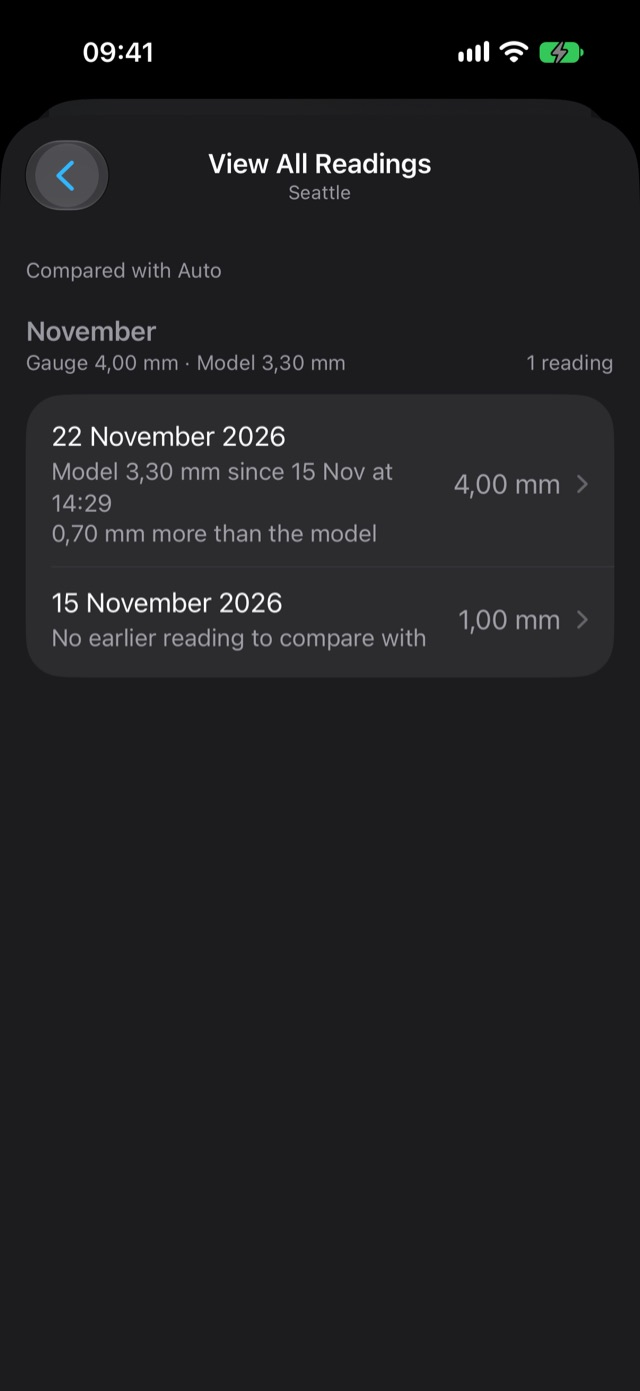
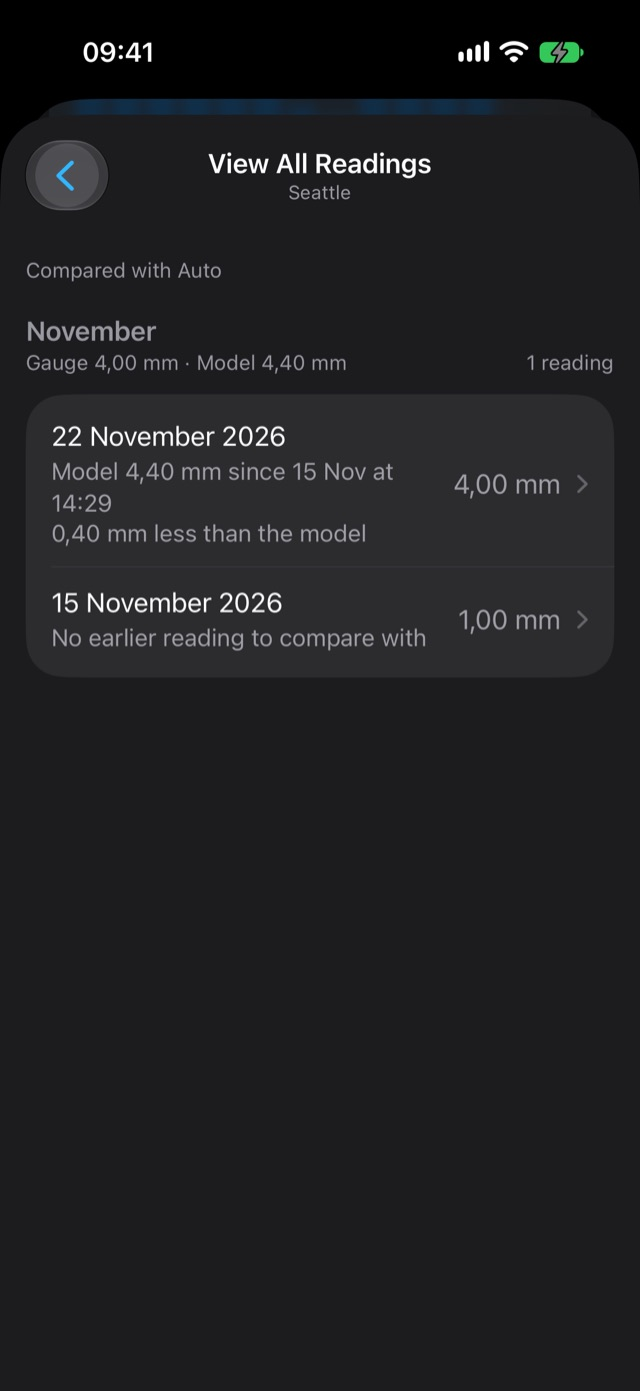
[save] Скриншоты сборки 95: экран локации без сносок, атрибуция Open-Meteo в Settings → Legal

diff --git a/index.html b/index.html
@@ -189,7 +189,7 @@ footer { padding-top: 2rem; font-size: .85rem; color: var(--muted); }
     <h1>Версия <span>2.3</span></h1>
     <p class="lede">Приложение теперь отвечает не только «сколько выпало», но и «это много или мало для этого места», «хватит ли воды газону» и «сколько ещё выпадет». Новые нормы, счётчик дождливых и ветреных дней, цель полива, прогноз осадков на карте, утренний отчёт и экспорт.</p>
     <div class="meta">
-      <span>версия <b>2.3.0</b> · build <b>93</b></span>
+      <span>версия <b>2.3.0</b> · build <b>95</b></span>
       <span>прошлая: 2.2.1 (92)</span>
       <span>iOS 18+</span>
     </div>
@@ -243,8 +243,8 @@ footer { padding-top: 2rem; font-size: .85rem; color: var(--muted); }
     <p class="where">Map → слой осадков → период 48 Hours</p>
   </div>
   <div class="shots">
-    <figure><div class="phone"><img src="img/map-forecast.jpg" alt="Карта Сиэтла с прогнозом осадков за 48 часов: цветные блоки от синего до жёлтого, сверху подпись RRFS 12:00 → Wed 12:00 и шкала от 0,5 до 100 мм" width="640" height="1391" loading="lazy"></div><figcaption>Прогноз RRFS на 48 часов над Сиэтлом</figcaption></figure>
-    <figure><div class="phone"><img src="img/map-settings.jpg" alt="Лист Map Preferences с переключателями Forecast и Precipitation Overlay и сноской об источниках Open-Meteo и CC BY 4.0" width="640" height="1391" loading="lazy"></div><figcaption>Переключатель слоя и атрибуция</figcaption></figure>
+    <figure><div class="phone"><img src="img/map-forecast.jpg" alt="Карта Северной Америки с прогнозом осадков за 48 часов по модели ECMWF: зоны дождя у тихоокеанского побережья и на юго-востоке, сверху подпись ECMWF 08:00 → Thu 08:00 и шкала от 0,5 до 100 мм" width="640" height="1391" loading="lazy"></div><figcaption>Прогноз ECMWF на 48 часов над Северной Америкой</figcaption></figure>
+    <figure><div class="phone"><img src="img/map-settings.jpg" alt="Лист Map Preferences: Pin Style, Map Style, переключатели Forecast и Precipitation Overlay, Precipitation Style и сноска об источниках Open-Meteo и CC BY 4.0" width="640" height="1391" loading="lazy"></div><figcaption>Переключатель слоя и атрибуция</figcaption></figure>
   </div>
 </section>
 
@@ -256,16 +256,15 @@ footer { padding-top: 2rem; font-size: .85rem; color: var(--muted); }
       <p class="sub">Новая карточка на экране локации считает дни с дождём за месяц и сравнивает их с климатической нормой.</p>
     </div>
     <ul>
-      <li>Дождливый день — сумма не меньше порога «Rain day threshold». Для текущего месяца — «N so far» и подписанный период: «Days counted: 1–22 Nov».</li>
+      <li>Дождливый день — сумма не меньше порога «Rain day threshold». Для текущего месяца — «N so far» и подписанный период: «Days counted: 1–23 Nov».</li>
       <li>«Average for…» — норма 1991–2020 по реанализу ERA5 за те же дни.</li>
       <li>«Rain events» — список дней с сильным дождём выше «Event threshold».</li>
-      <li>Предварительные дни, которые модель ещё может пересчитать, помечены точкой.</li>
-      <li>Работает и на вкладке «My Log» — по показаниям вашего дождемера.</li>
+            <li>Работает и на вкладке «My Log» — по показаниям вашего дождемера.</li>
     </ul>
     <p class="where">Rainfall → карточка локации → Rain Days</p>
   </div>
   <div class="shots">
-    <figure><div class="phone"><img src="img/rain-days.jpg" alt="Карточка Rain Days для Сиэтла: 7 дождливых дней с 1 по 22 ноября при норме 10,5; ниже события 7 и 10 ноября по 16 и 18 мм и годовой график с нормой" width="640" height="1391" loading="lazy"></div><figcaption>7 дождливых дней при норме 10,5</figcaption></figure>
+    <figure><div class="phone"><img src="img/rain-days.jpg" alt="Карточки Weekly Watering Goal и Rain Days для Сиэтла: 7 дождливых дней с 1 по 23 ноября при норме 11,1; события 7 и 10 ноября по 16 и 18 мм; 13 ветреных дней" width="640" height="1391" loading="lazy"></div><figcaption>7 дождливых дней при норме 11,1</figcaption></figure>
   </div>
 </section>
 
@@ -277,7 +276,7 @@ footer { padding-top: 2rem; font-size: .85rem; color: var(--muted); }
       <p class="sub">Каждая сумма теперь видна на фоне многолетней нормы для этой точки.</p>
     </div>
     <ul>
-      <li>Накопительный график: пунктир «Normal» и строка «2026: 751 mm · Normal: 1 081 mm (69 %)» на один и тот же день сезона.</li>
+      <li>Накопительный график: пунктир «Normal» и строка «2026: 753 mm · Normal: 1 088 mm (69 %)» на один и тот же день сезона.</li>
       <li>Месячные бары: риска нормы над каждым месяцем и «N % of normal to date» в заголовке.</li>
       <li>Календарь: «% of normal» за прошлый месяц и «to date» за текущий.</li>
       <li>Сезон можно начинать с любого месяца: удобно для водного года (октябрь–сентябрь) или сельхозсезона. Чипы становятся «2025–26».</li>
@@ -286,7 +285,7 @@ footer { padding-top: 2rem; font-size: .85rem; color: var(--muted); }
     <p class="where">Rainfall → карточка локации → Cumulative precipitation</p>
   </div>
   <div class="shots">
-    <figure><div class="phone"><img src="img/normals.jpg" alt="Накопительный график осадков 2026 года в Сиэтле зелёной линией против пунктира нормы; подпись 751 мм против нормы 1 081 мм, 69 %" width="640" height="1391" loading="lazy"></div><figcaption>2026 год: 69 % от нормы на сегодня</figcaption></figure>
+    <figure><div class="phone"><img src="img/normals.jpg" alt="Накопительный график осадков 2026 года в Сиэтле зелёной линией против пунктира нормы; подпись 753 мм против нормы 1 088 мм, 69 %" width="640" height="1391" loading="lazy"></div><figcaption>2026 год: 69 % от нормы на сегодня</figcaption></figure>
   </div>
 </section>
 
@@ -298,22 +297,24 @@ footer { padding-top: 2rem; font-size: .85rem; color: var(--muted); }
       <p class="sub">Карточка «Weekly Watering Goal» отвечает на главный вопрос садовода: поливать или дождь справится сам.</p>
     </div>
     <ul>
-      <li>Прогресс-бар: сколько выпало за 7 дней против цели («3 mm of 25 mm since 16 Nov»).</li>
+      <li>Прогресс-бар: сколько выпало за 7 дней против цели («8 mm of 25 mm since 17 Nov»).</li>
       <li>Вердикт: «Goal reached», «Forecast may cover it» или «Water needed: Z more».</li>
       <li>Прогноз на следующие 3 дня отдельной строкой.</li>
       <li>Цель задаётся в Rain Statistics: от 10 до 40 мм или от 0,5 до 2″.</li>
     </ul>
     <div class="head" style="margin-top:.75rem">
       <div class="tags"><span class="tag">Улучшено</span><span class="tag free">Бесплатно</span></div>
-      <h3 style="font:600 1.1rem/1.3 var(--font-body)">Откуда эта цифра</h3>
+      <h3 style="font:600 1.1rem/1.3 var(--font-body)">Меньше подписей на экране локации</h3>
     </div>
     <ul>
-      <li>Под календарём — сноска: какая модель дала данные (via Open-Meteo), что это оценка по ячейке сетки, а не точечный замер, и в каком часовом поясе считаются сутки.</li>
-      <li>Свежие дни помечены точкой «preliminary»: модель ещё может их уточнить.</li>
+      <li>Под календарём больше нет мелкой сноски об источнике: модель видна в переключателе вкладок, а технические оговорки (сетка модели, граница суток) остались только в шапке экспорта.</li>
+      <li>Атрибуция Open-Meteo переехала в Settings → Legal: строка «Weather data by Open-Meteo.com».</li>
+      <li>Убраны точки «preliminary» в календаре и подпись «Today counts in full…» у цели полива — экран стал чище.</li>
     </ul>
   </div>
   <div class="shots">
-    <figure><div class="phone"><img src="img/goal.jpg" alt="Календарь ноября со суммами по дням, под ним сноска об источнике данных и карточка Weekly Watering Goal: 3 из 25 мм, Forecast may cover it, прогноз на 3 дня 56 мм" width="640" height="1391" loading="lazy"></div><figcaption>Сноска об источнике и цель полива</figcaption></figure>
+    <figure><div class="phone"><img src="img/goal.jpg" alt="Календарь ноября для Сиэтла без сноски под ним, сразу за ним карточка Weekly Watering Goal: 8 из 25 мм с 17 ноября, Forecast may cover it, прогноз на 3 дня 41 мм" width="640" height="1391" loading="lazy"></div><figcaption>Календарь без сноски, сразу цель полива: 8 из 25 мм</figcaption></figure>
+    <figure><div class="phone"><img src="img/legal.jpg" alt="Раздел Legal в настройках: Privacy Policy, Terms of Service и новая строка Weather data by Open-Meteo.com" width="640" height="1391" loading="lazy"></div><figcaption>Атрибуция Open-Meteo теперь в Settings → Legal</figcaption></figure>
     <figure><div class="phone"><img src="img/rain-stats.jpg" alt="Экран Rain Statistics: начало сезона, пороги дождливого дня и события, недельная цель, пороги ветра и порывов" width="640" height="1391" loading="lazy"></div><figcaption>Цель и все пороги — в Rain Statistics</figcaption></figure>
   </div>
 </section>
@@ -335,8 +336,8 @@ footer { padding-top: 2rem; font-size: .85rem; color: var(--muted); }
     <p class="where">Settings → Rain Statistics</p>
   </div>
   <div class="shots">
-    <figure><div class="phone"><img src="img/windy-days.jpg" alt="Карточка Rain Days с новым блоком Windy days: порывы от 30 км/ч, 12 ветреных дней с начала ноября" width="640" height="1391" loading="lazy"></div><figcaption>Windy days: 12 дней с порывами от 30 км/ч</figcaption></figure>
-    <figure><div class="phone"><img src="img/wind-calendar.jpg" alt="Календарь ноября: на ветреных днях в углу ячейки значок ветра, включая прогнозные дни" width="640" height="1391" loading="lazy"></div><figcaption>Значок ветра в календаре</figcaption></figure>
+    <figure><div class="phone"><img src="img/windy-days.jpg" alt="Блок Windy days в карточке Rain Days: порывы от 30 км/ч, 13 ветреных дней с начала ноября; ниже месячные бары 2026 года с нормой" width="640" height="1391" loading="lazy"></div><figcaption>Windy days: 13 дней с порывами от 30 км/ч</figcaption></figure>
+    <figure><div class="phone"><img src="img/wind-calendar.jpg" alt="Календарь ноября для Сиэтла: суммы по дням, 47 % нормы на сегодня, значок ветра в углу ветреных дней, включая прогнозные; под календарём больше нет сноски" width="640" height="1391" loading="lazy"></div><figcaption>Значок ветра в календаре</figcaption></figure>
   </div>
 </section>
 
@@ -368,7 +369,7 @@ footer { padding-top: 2rem; font-size: .85rem; color: var(--muted); }
       <p class="sub">Для тех, кто ведёт свой журнал: насколько модель расходится с вашим дождемером.</p>
     </div>
     <ul>
-      <li>У каждого замера — сумма модели за период с предыдущего замера (до 8 суток) и разница: «0,70 mm more than the model».</li>
+      <li>У каждого замера — сумма модели за период с предыдущего замера (до 8 суток) и разница: «0,40 mm less than the model».</li>
       <li>В шапке месяца — итог «Gauge · Model» по всем сравнимым замерам.</li>
       <li>Модель — основной провайдер локации; для старых замеров архив догружается автоматически.</li>
       <li>Первый замер сравнивать не с чем, он подписан «No earlier reading to compare with».</li>
@@ -376,7 +377,7 @@ footer { padding-top: 2rem; font-size: .85rem; color: var(--muted); }
     <p class="where">Экран локации → меню «…» → View All Readings</p>
   </div>
   <div class="shots">
-    <figure><div class="phone"><img src="img/gauge.jpg" alt="Экран View All Readings для Сиэтла: в ноябре дождемер 4,00 мм против модели 3,30 мм, у замера 22 ноября подпись 0,70 mm more than the model" width="640" height="1391" loading="lazy"></div><figcaption>Дождемер 4,00 мм против модели 3,30 мм</figcaption></figure>
+    <figure><div class="phone"><img src="img/gauge.jpg" alt="Экран View All Readings для Сиэтла: в ноябре дождемер 4,00 мм против модели 4,40 мм, у замера 22 ноября подпись 0,40 mm less than the model" width="640" height="1391" loading="lazy"></div><figcaption>Дождемер 4,00 мм против модели 4,40 мм</figcaption></figure>
   </div>
 </section>
 <section class="feature" id="export">
@@ -395,7 +396,7 @@ footer { padding-top: 2rem; font-size: .85rem; color: var(--muted); }
     <p class="where">Экран локации → меню «…» → Export Data</p>
   </div>
   <div class="shots">
-    <figure><div class="phone"><img src="img/export.jpg" alt="Лист Export Data: период Last 30 Days с 24 октября по 22 ноября, формат PDF, источник Auto via Open-Meteo и системное меню Share с файлом Seattle_2026-10-24_2026-11-22, PDF 26 КБ" width="640" height="1391" loading="lazy"></div><figcaption>PDF за 30 дней готов к отправке</figcaption></figure>
+    <figure><div class="phone"><img src="img/export.jpg" alt="Лист Export Data: период Last 30 Days с 25 октября по 23 ноября, формат PDF, источник Auto via Open-Meteo и системное меню Share с файлом Seattle_2026-10-25_2026-11-23, PDF 27 КБ" width="640" height="1391" loading="lazy"></div><figcaption>PDF за 30 дней готов к отправке</figcaption></figure>
   </div>
 </section>
 
@@ -415,7 +416,7 @@ footer { padding-top: 2rem; font-size: .85rem; color: var(--muted); }
     <p class="where">Rainfall → список локаций</p>
   </div>
   <div class="shots">
-    <figure><div class="phone"><img src="img/shared-scale.jpg" alt="Список локаций: у карточек Факт и Seattle графики осадков за 48 часов с одинаковой осью 0,05 / 0,1 / 0,2; у Seattle столбики выше" width="640" height="1391" loading="lazy"></div><figcaption>Факт и Сиэтл на одной оси: сразу видно, где дождь сильнее</figcaption></figure>
+    <figure><div class="phone"><img src="img/shared-scale.jpg" alt="Список локаций: у карточек Факт и Seattle графики осадков за 48 часов на одной оси 0,1 / 0,2" width="640" height="1391" loading="lazy"></div><figcaption>Факт и Сиэтл на одной оси: высоты столбиков можно сравнивать</figcaption></figure>
   </div>
 </section>
 
@@ -440,7 +441,7 @@ footer { padding-top: 2rem; font-size: .85rem; color: var(--muted); }
   </div>
 </section>
 
-<footer>Скриншоты сняты на iPhone 17 Pro, версия 2.3.0 (сборки 93 и 94), локация — Сиэтл, 23 ноября 2026.</footer>
+<footer>Скриншоты сняты на iPhone 17 Pro, версия 2.3.0 (build 95), локация — Сиэтл, 24 ноября 2026.</footer>
 
 </div>
 </body>
